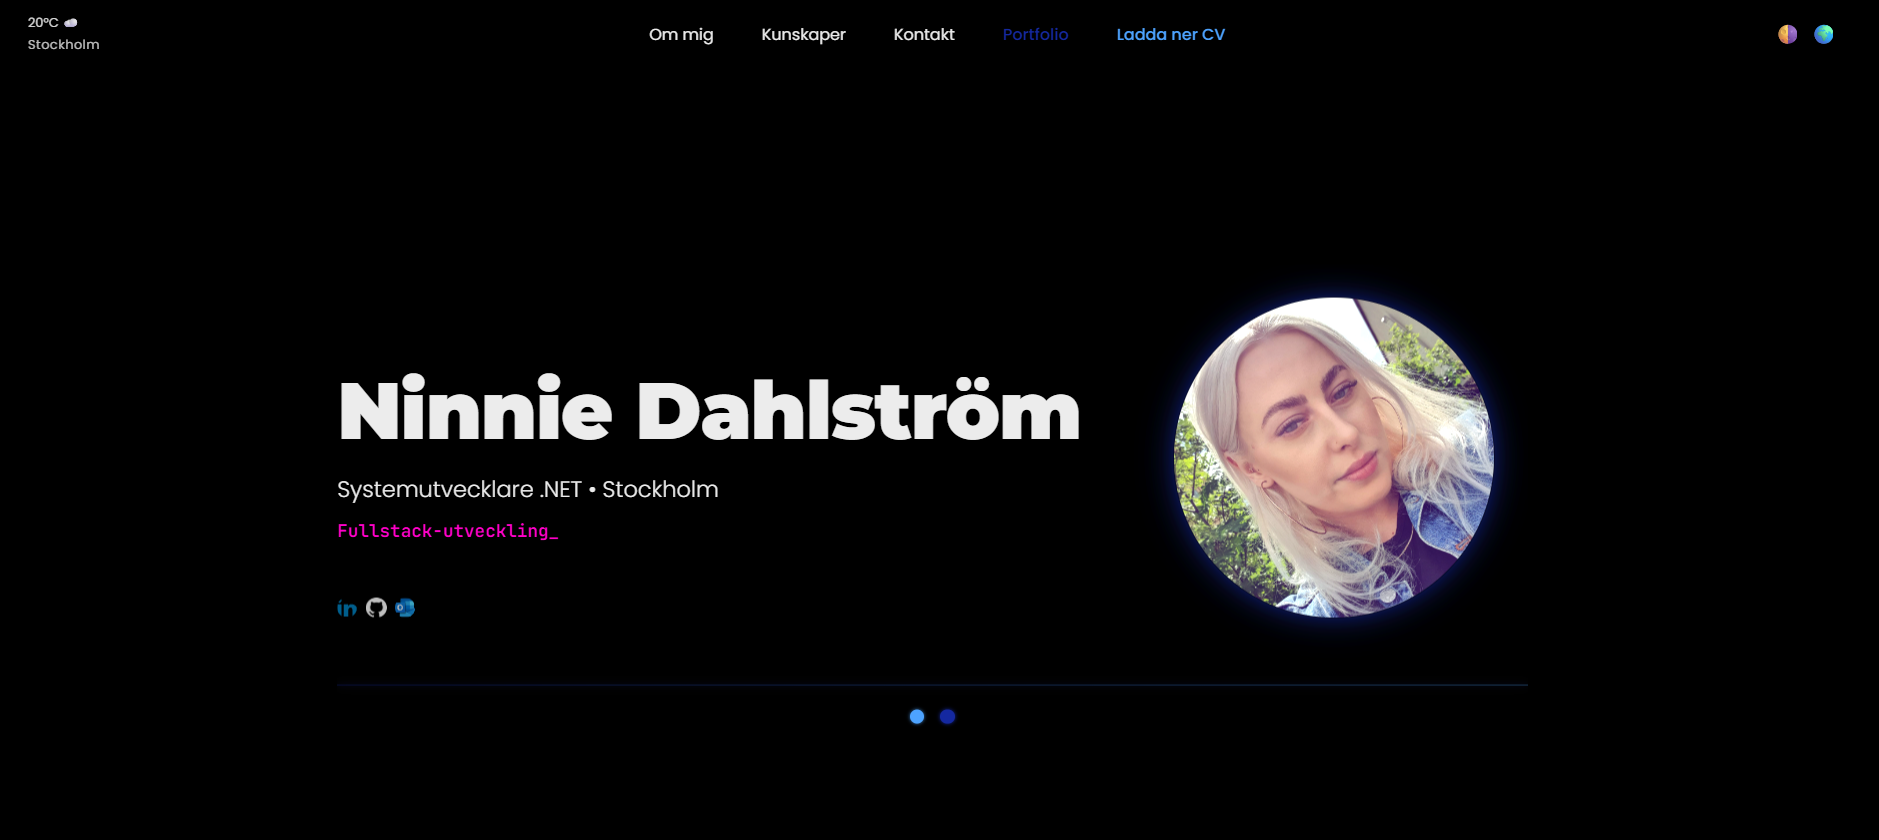
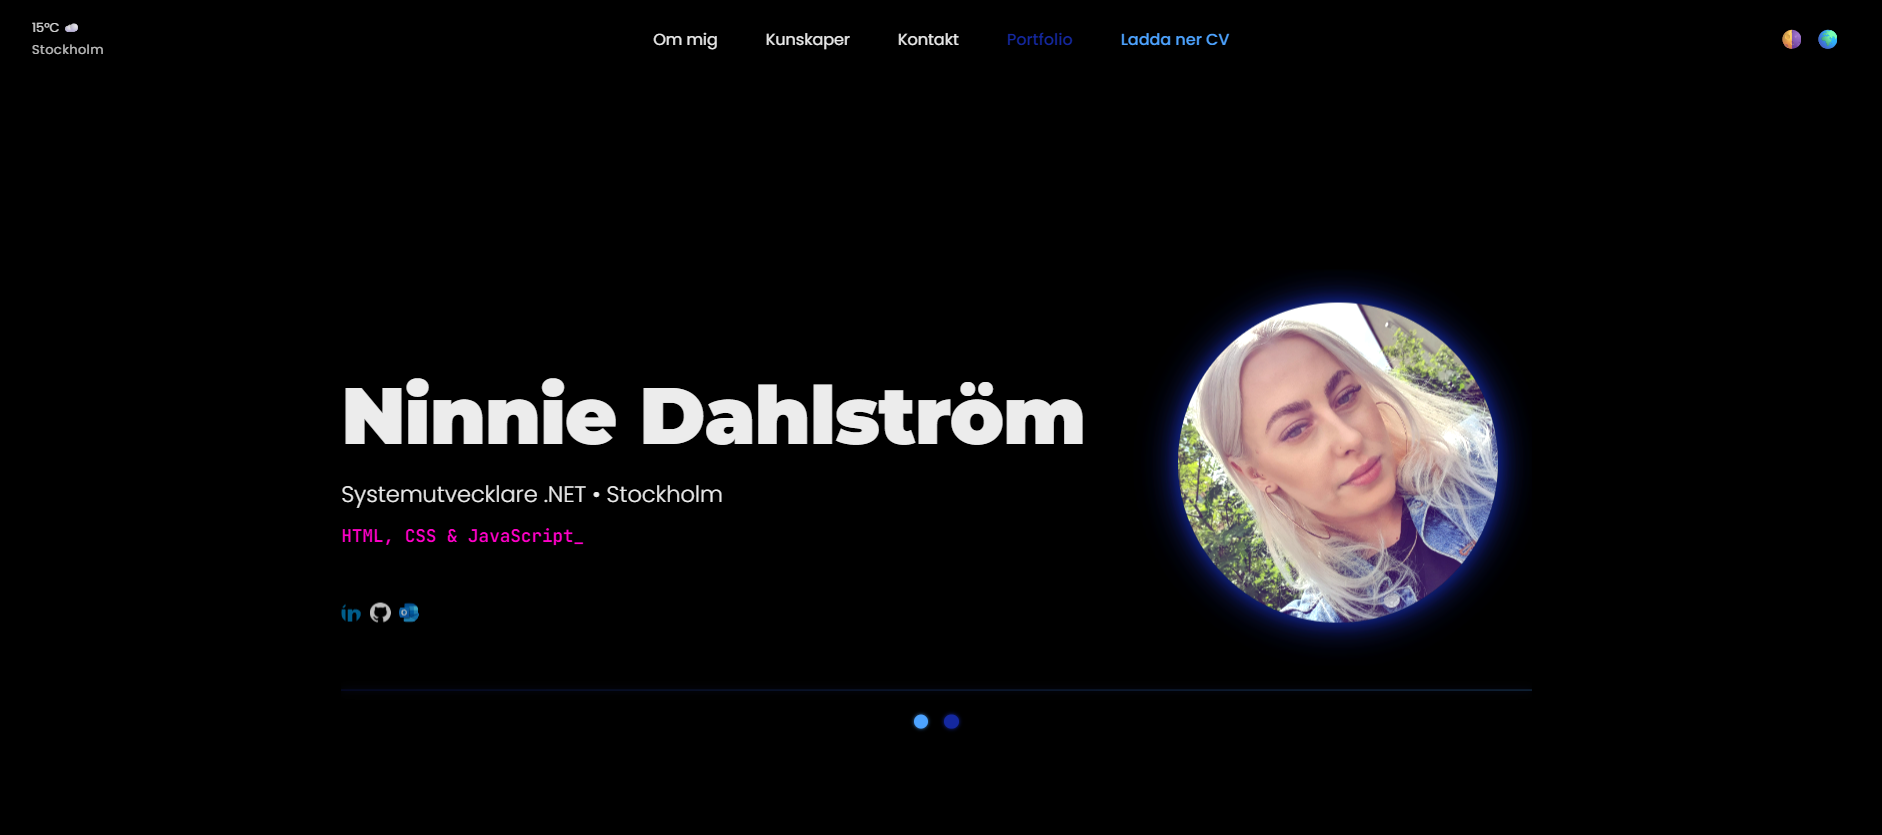
Refactor code structure for improved readability and maintainability

diff --git a/index.html b/index.html
@@ -4,6 +4,12 @@
     <meta charset="UTF-8">
     <meta name="viewport" content="width=device-width, initial-scale=1.0">
     <meta name="description" content="Portfolio av Ninnie Dahlström - Systemutvecklare inom .NET, C#, SQL, API och modern webbutveckling.">
+    <meta property="og:title" content="Ninnie Dahlström - Webbportfolio">
+    <meta property="og:description" content="Responsiv frontenddesign med HTML, CSS och JavaScript">
+    <meta property="og:image" content="https://nninnie.github.io/webbportfolio/image/readme-image">
+    <meta property="og:url" content="https://nninnie.github.io/webbportfolio/">
+    <meta property="og:type" content="website">
+
     <title>Ninnie Dahlström - Portfolio</title>
     <link rel="stylesheet" href="style.css">
     <link href="https://fonts.googleapis.com/css2?family=Montserrat:wght@400;600;700;900&display=swap" rel="stylesheet">

diff --git a/index-en.html b/index-en.html
@@ -4,6 +4,11 @@
     <meta charset="UTF-8">
     <meta name="viewport" content="width=device-width, initial-scale=1.0">
     <meta name="description" content="Portfolio by Ninnie Dahlström - System developer in .NET, C#, SQL, API and modern web development.">
+    <meta property="og:title" content="Ninnie Dahlström - Webbportfolio">
+    <meta property="og:description" content="Responsiv frontenddesign med HTML, CSS och JavaScript">
+    <meta property="og:image" content="https://nninnie.github.io/webbportfolio/image/readme-image">
+    <meta property="og:url" content="https://nninnie.github.io/webbportfolio/">
+    <meta property="og:type" content="website">
     <title>Ninnie Dahlström - Portfolio</title>
     <link rel="stylesheet" href="style.css">
     <link href="https://fonts.googleapis.com/css2?family=Montserrat:wght@400;600;700;900&display=swap" rel="stylesheet">
